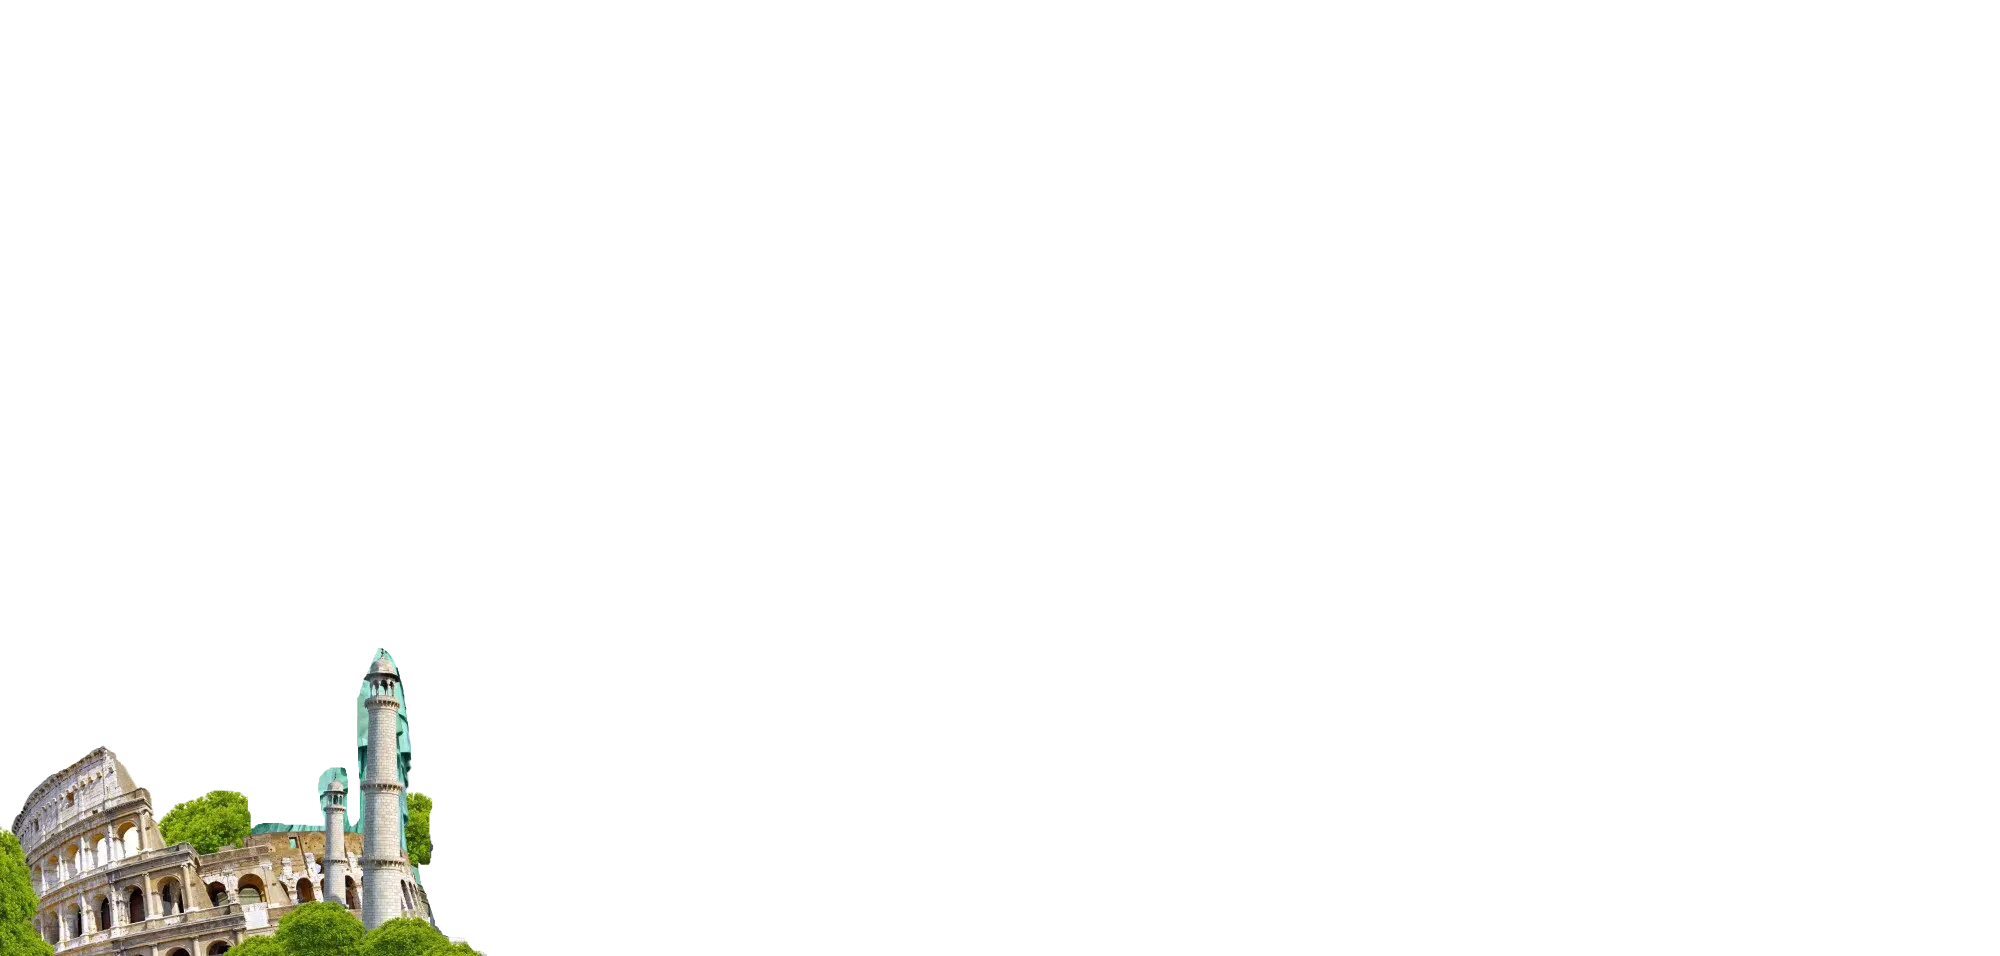
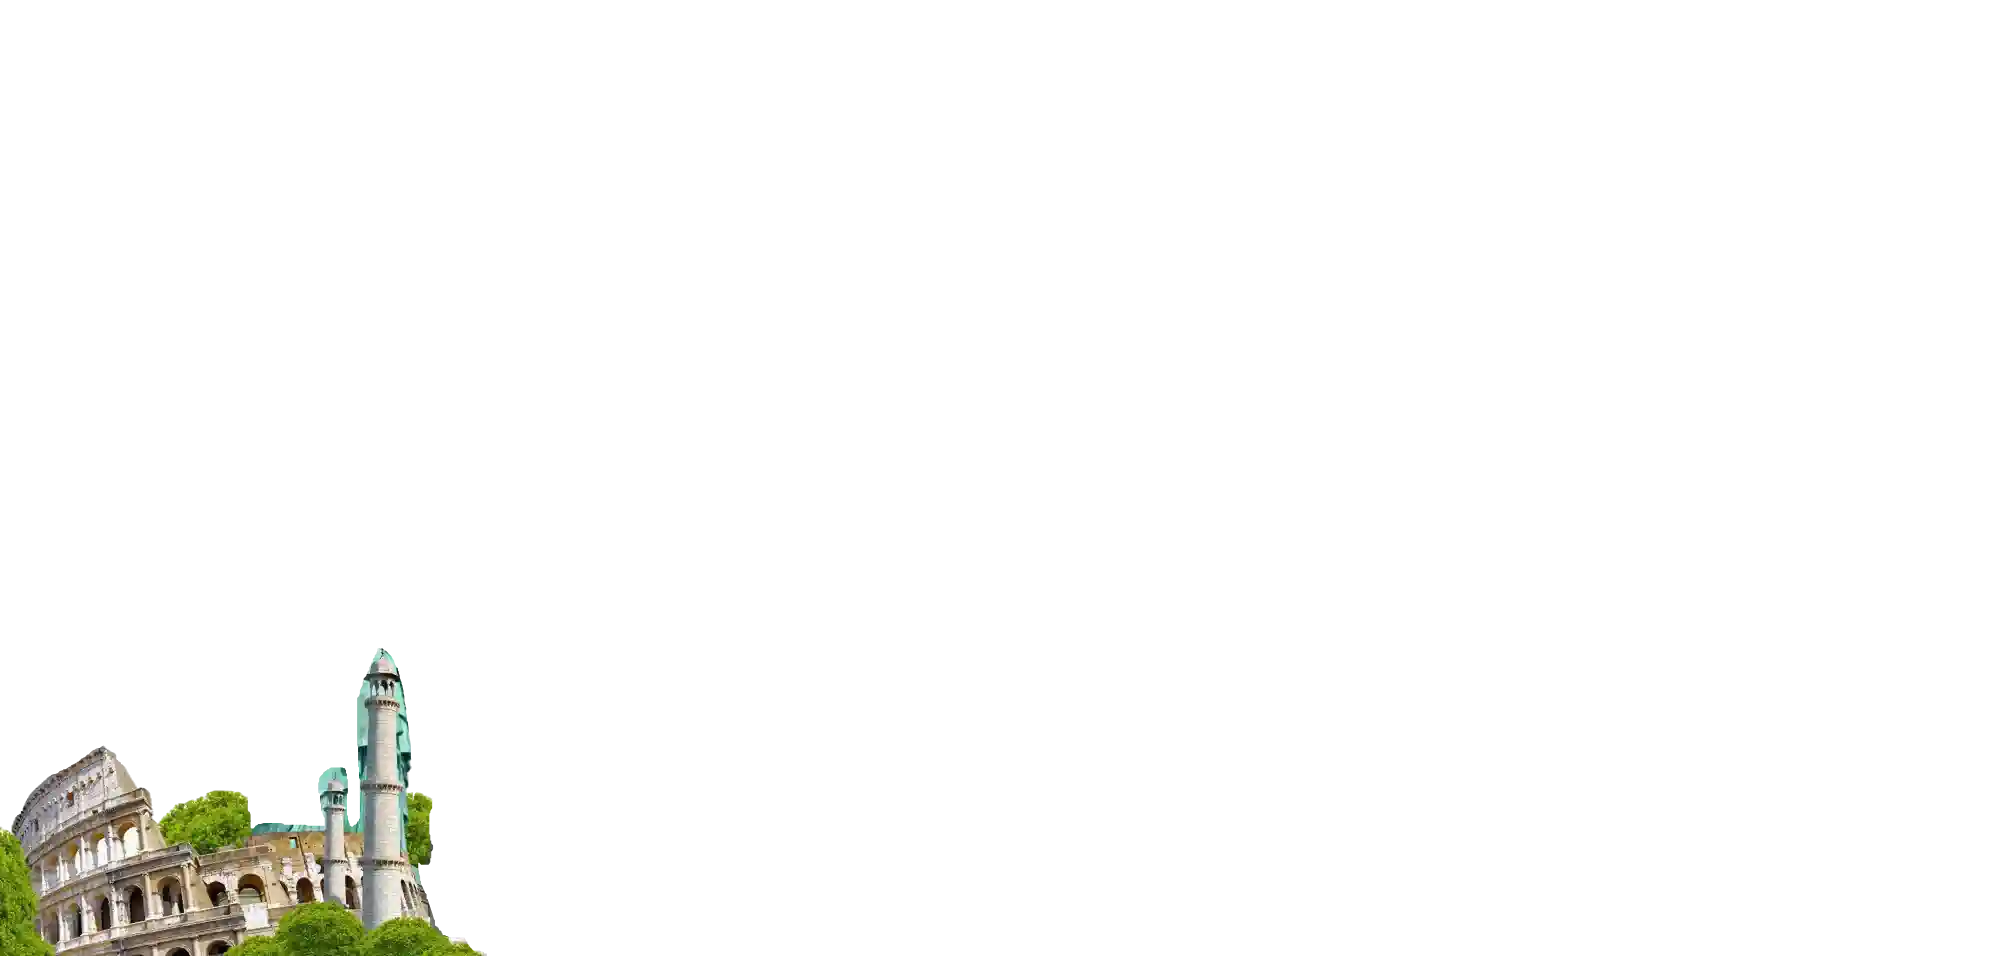
remove png images and reduce size

Changed region(s): [[0.0, 0.7887, 0.248, 1.0]]

diff --git a/components/revamp/home/HeroSection.jsx b/components/revamp/home/HeroSection.jsx
@@ -8,7 +8,7 @@ import {
   gsap,
 } from "../common/gsapConfig";
 import HeadingContent from "./HeadingContent";
-import bg from "../assets/bg.png";
+import bg from "../assets/bg.webp";
 import styles from "./HeroSection.module.scss";
 
 export default function HeroSection({ title, subtitle }) {
